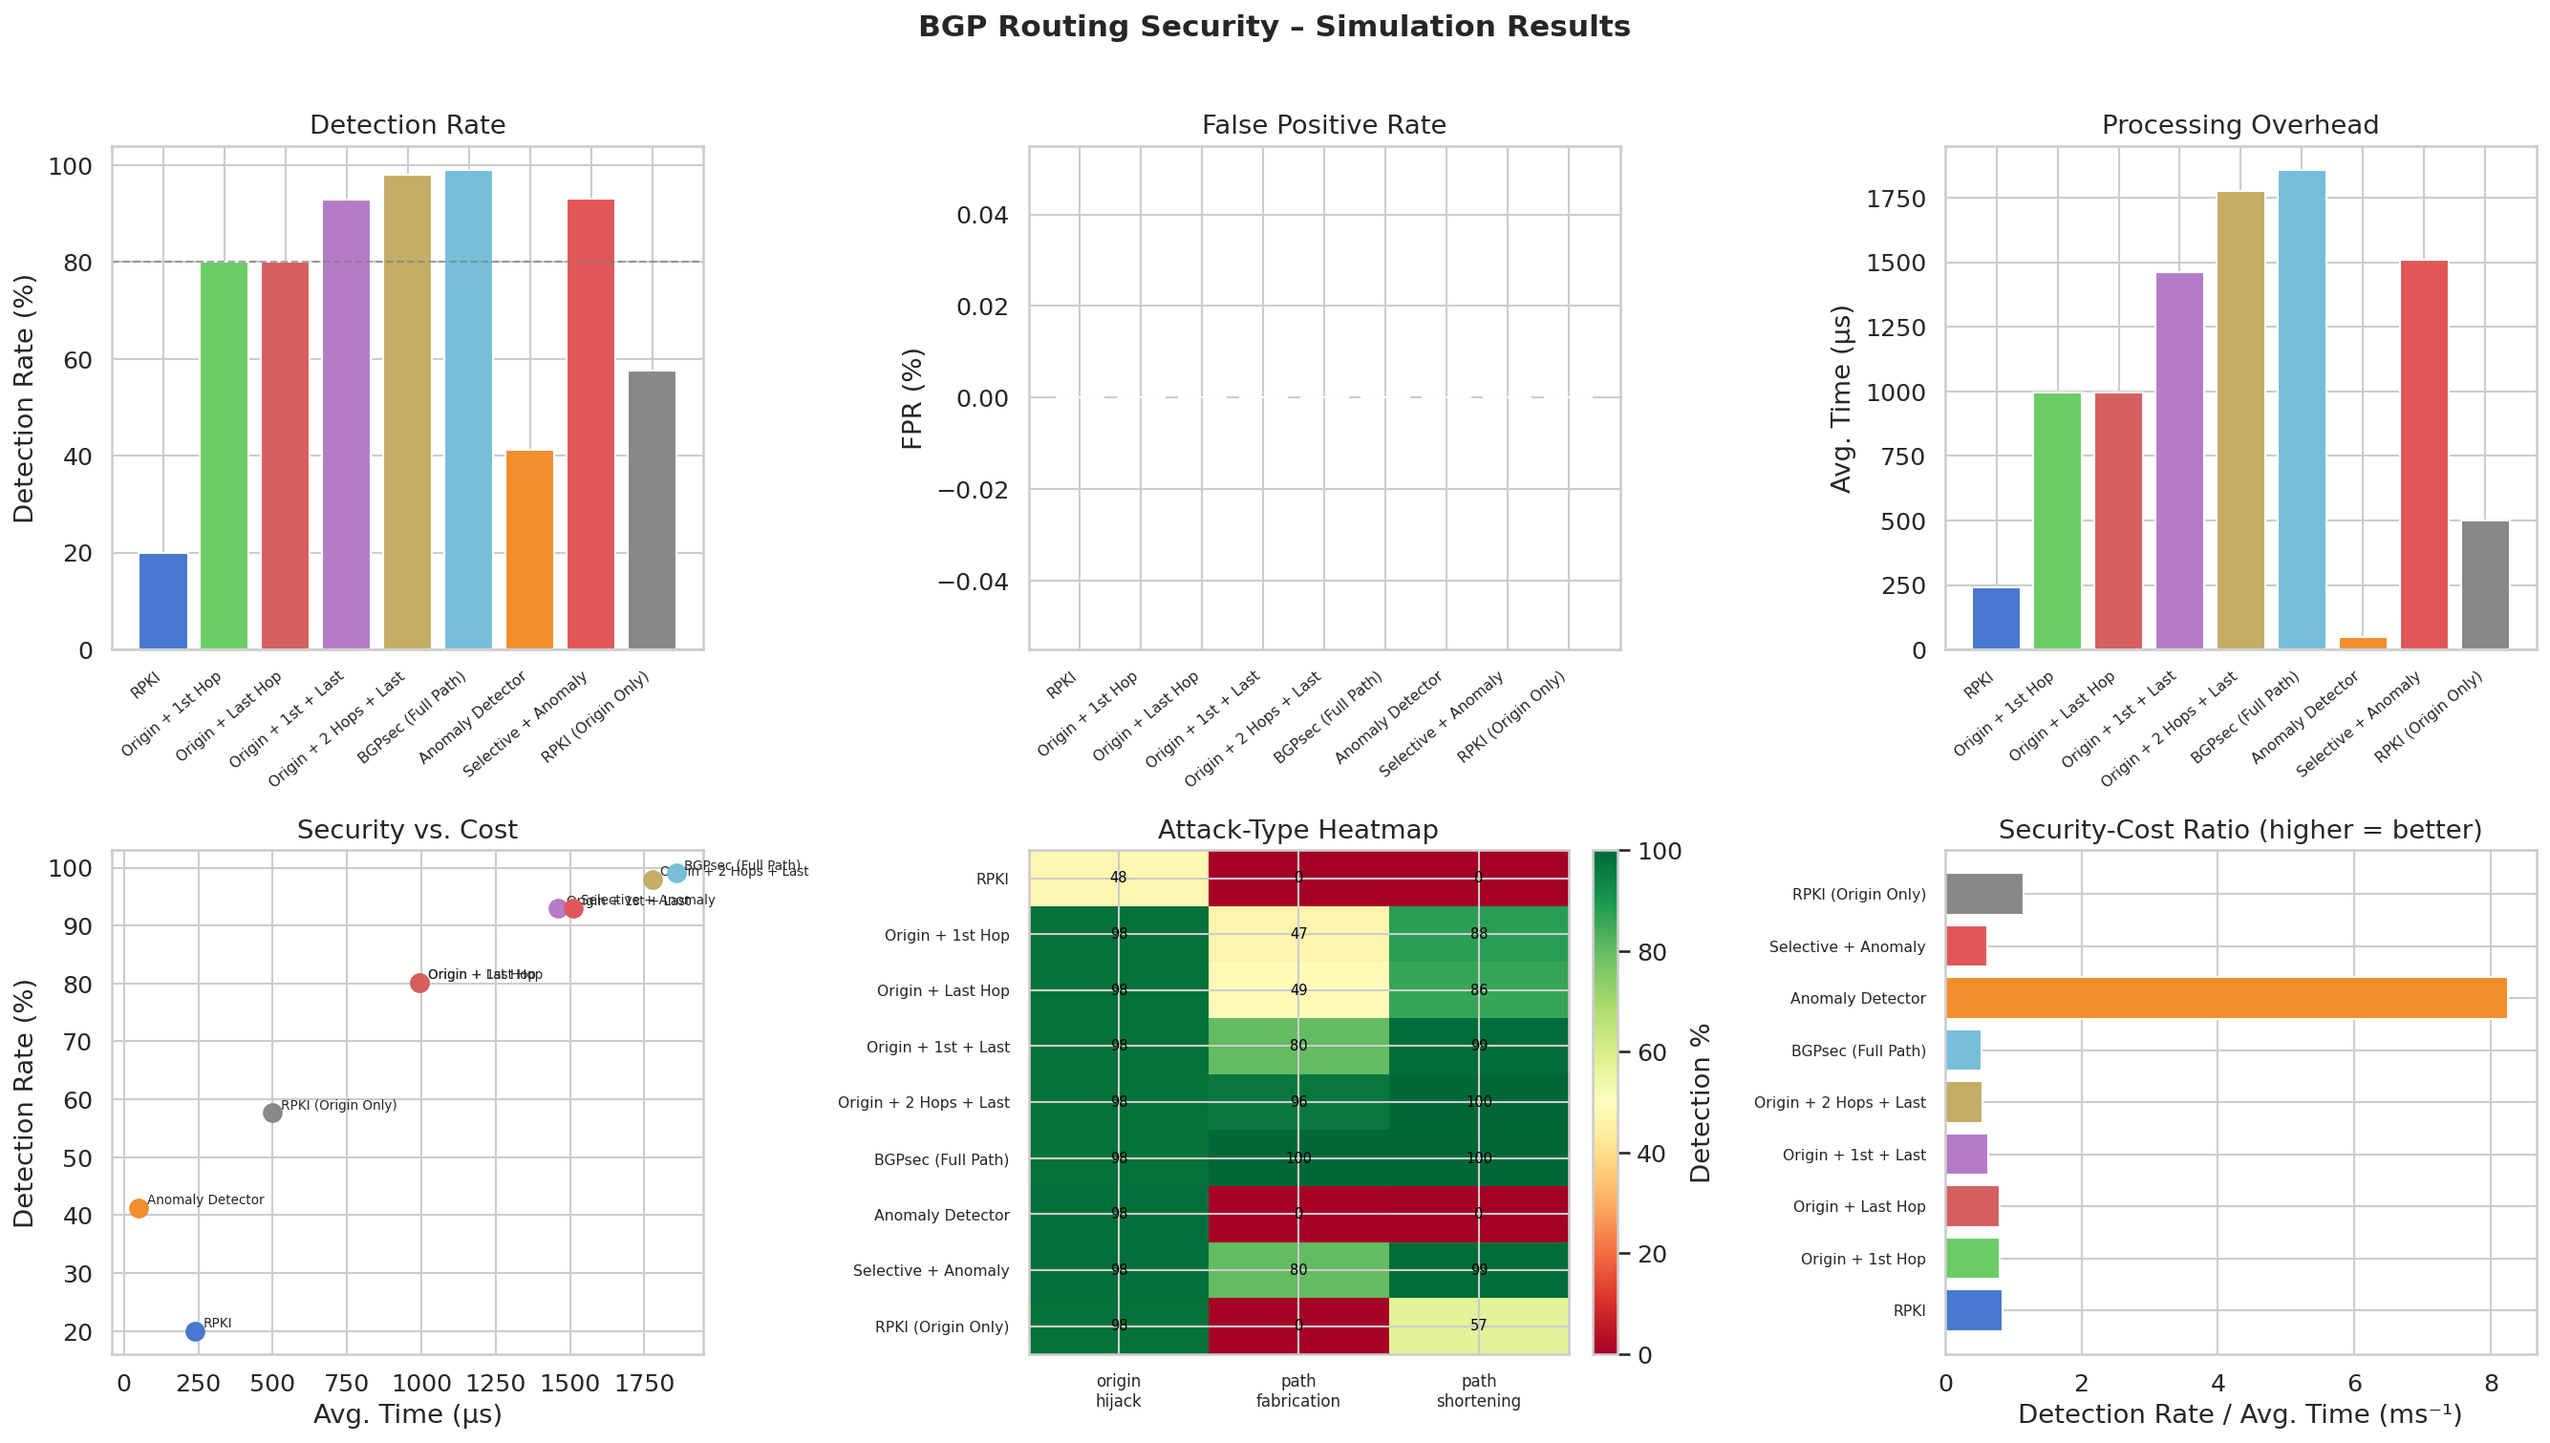
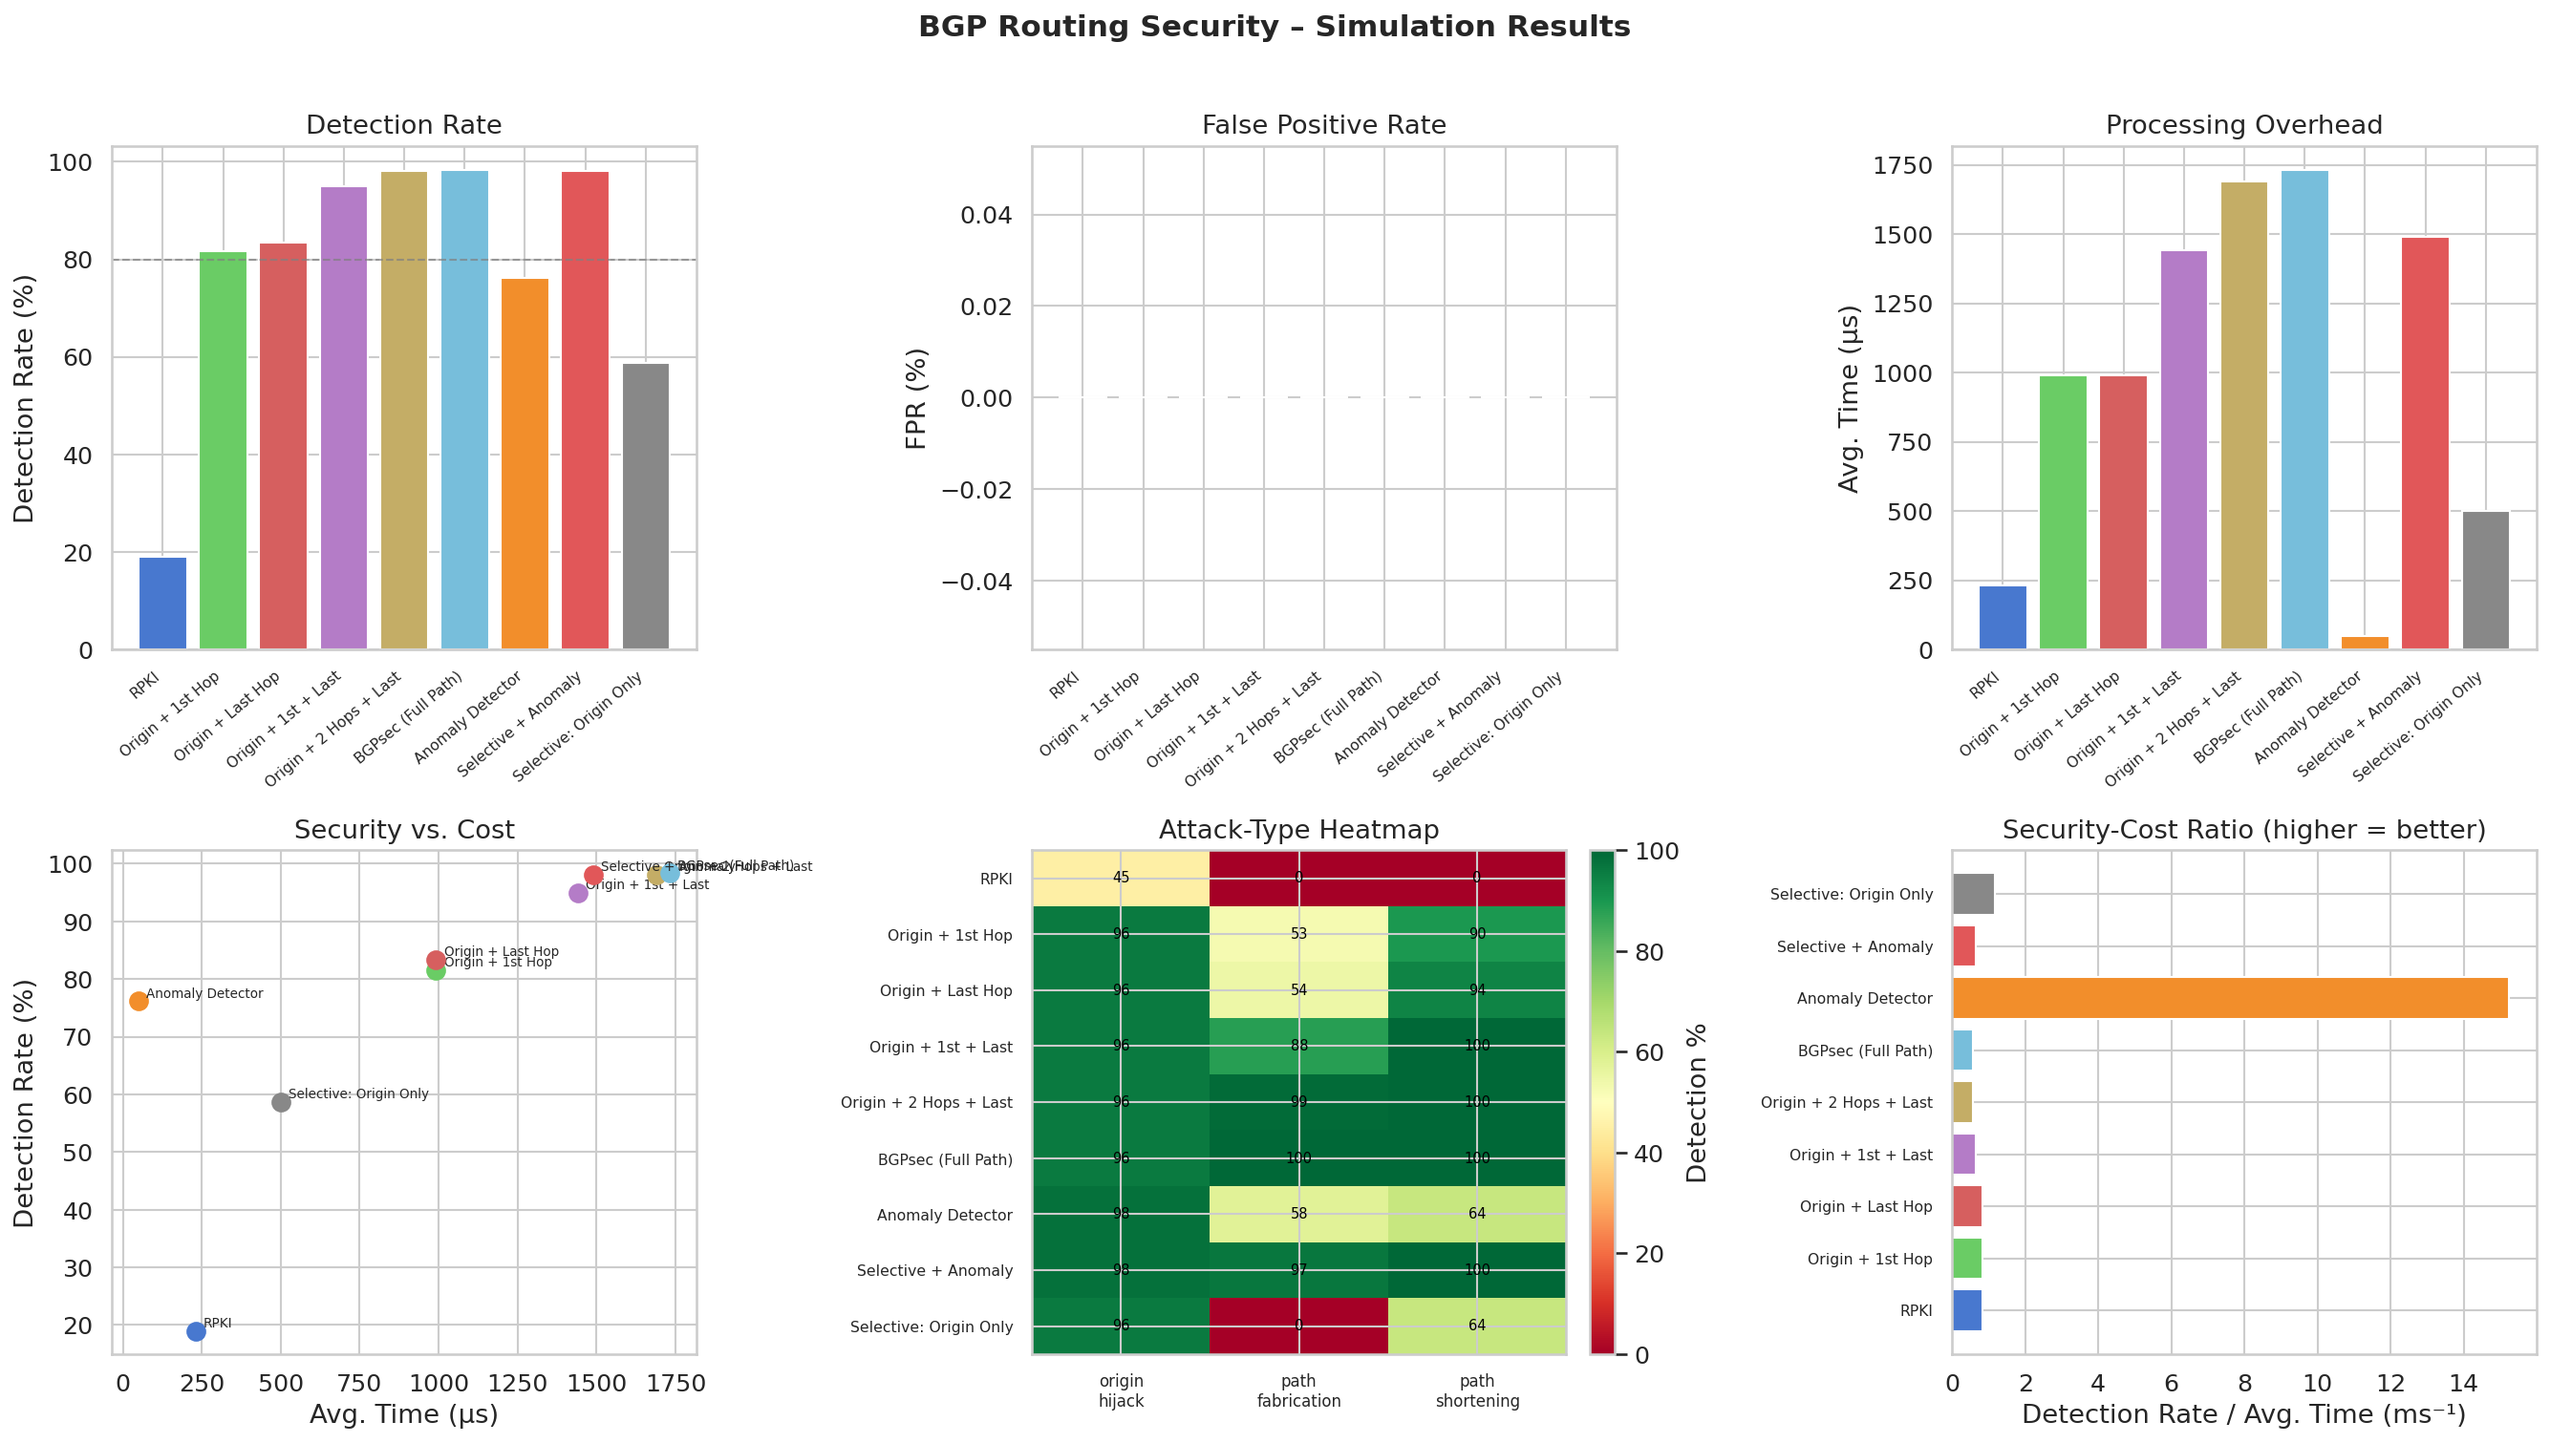
Fix four design issues flagged in review
1. Rename misleading "RPKI (Origin Only)" label to "Selective: Origin Only"
   The SelectiveHopValidator(positions=[0]) checks topological adjacency for
   every route regardless of ROA coverage. This is a fundamentally different
   mechanism from RPKIValidator, which only fires for the ~45% of prefixes
   that have a ROA. The old label implied they were the same thing. Added a
   detailed comment in config.py explaining the distinction between the two.

2. Fix anomaly detector not catching path fabrication/shortening
   Both attacks produce a valley-free violation (non-adjacent AS pair) AND
   a path-length z-score, but the combined score of 0.45 fell just under the
   0.5 threshold. Raised W_VALLEY_FREE 0.20→0.30 (with W_NEW_AS and W_LOOP
   each lowered 0.10→0.05 to keep weights summing to 1.0). Valley-free is a
   hard constraint for legitimate routes so weighting it higher is principled.
   Result: anomaly detector now catches 57.8% of path fabrication and 63.6%
   of path shortening, with detection rate rising from 40.9% to 76.2%.

3. Remove wasteful nx.has_path() call in sample_as_pairs
   The Barabási-Albert construction guarantees connectivity (confirmed at
   runtime via stats()['connected']), so has_path() always returned True and
   added O(n) overhead per sampled pair. Replaced with a direct list
   comprehension. Added a comment explaining why the check is unnecessary.

4. Clarify that timing constants are model parameters, not wall-clock data
[…]

diff --git a/config.py b/config.py
@@ -23,17 +23,29 @@ ATTACK_TYPE_DIST = {
 }
 
 # ── Timing constants (milliseconds per operation) ───────────────────────────
-# Based on empirical BGPsec measurements in the literature
-CRYPTO_VERIFY_MS    = 0.50   # RSA-2048 signature verification per hop
-HASH_LOOKUP_MS      = 0.01   # Hash-table / dict lookup (anomaly detector)
+# NOTE: these are *model parameters* drawn from published BGPsec benchmarks,
+# not wall-clock measurements.  All timing comparisons are therefore relative
+# (validator A vs. validator B), not absolute deployment estimates.
+CRYPTO_VERIFY_MS    = 0.50   # RSA-2048 signature verification per hop (model)
+HASH_LOOKUP_MS      = 0.01   # Hash-table / dict lookup (model)
 
 # ── Selective-hop combinations to benchmark ──────────────────────────────────
 # Position 0  = origin AS (rightmost in AS_PATH)
 # Position 1  = AS immediately after origin
 # Position -1 = receiving peer (leftmost in AS_PATH)
 # None        = verify all hops (BGPsec)
+#
+# NOTE on "Selective: Origin Only" vs. the RPKIValidator class:
+#   RPKIValidator   – models real-world RPKI: checks prefix→origin binding in
+#                     the ROA database.  Only ~45 % of prefixes have a ROA, so
+#                     detection is limited by deployment coverage.
+#   "Selective: Origin Only" (SelectiveHopValidator, positions=[0]) – checks
+#                     topological adjacency at the origin hop for *every* route,
+#                     regardless of ROA coverage.  It represents the theoretical
+#                     ceiling of origin-only cryptographic verification at 100 %
+#                     deployment and is a different mechanism entirely.
 HOP_COMBINATIONS = {
-    "origin_only":         {"positions": [0],         "label": "RPKI (Origin Only)"},
+    "origin_only":         {"positions": [0],         "label": "Selective: Origin Only"},
     "origin_first":        {"positions": [0, 1],      "label": "Origin + 1st Hop"},
     "origin_last":         {"positions": [0, -1],     "label": "Origin + Last Hop"},
     "origin_first_last":   {"positions": [0, 1, -1],  "label": "Origin + 1st + Last"},

diff --git a/src/validators/anomaly.py b/src/validators/anomaly.py
@@ -60,12 +60,20 @@ class AnomalyDetector(BaseValidator):
 
     name = "Anomaly Detector"
 
-    # ── Weights for each detection signal (must sum to ≤1 each individually) ─
+    # ── Weights for each detection signal (sum = 1.0) ────────────────────────
+    # W_VALLEY_FREE is deliberately higher than the other structural signals
+    # because a valley-free violation is a *hard* constraint: legitimate BGP
+    # paths must satisfy it, so any violation is strongly indicative of path
+    # manipulation (shortening or fabrication).  Setting it to 0.30 means a
+    # fabricated/shortened path that triggers both the path-length z-score
+    # (0.25) and the valley-free check (0.30) scores ≥ 0.55 > threshold (0.50),
+    # making those attacks reliably detectable without raising the false-positive
+    # rate on legitimate routes (which always satisfy valley-free).
     W_PATH_LENGTH   = 0.25
     W_ORIGIN_CHANGE = 0.35
-    W_VALLEY_FREE   = 0.20
-    W_NEW_AS        = 0.10
-    W_LOOP          = 0.10
+    W_VALLEY_FREE   = 0.30   # raised from 0.20; see note above
+    W_NEW_AS        = 0.05   # lowered from 0.10 to keep total = 1.0
+    W_LOOP          = 0.05   # lowered from 0.10 to keep total = 1.0
 
     def __init__(
         self,

diff --git a/src/topology.py b/src/topology.py
@@ -117,14 +117,15 @@ class ASTopology:
         return True
 
     def sample_as_pairs(self, n: int) -> List[Tuple[int, int]]:
-        """Sample n (source, destination) AS pairs for route generation."""
+        """Sample n (source, destination) AS pairs for route generation.
+
+        The Barabási-Albert construction guarantees the graph is connected
+        (verified at build time via stats()), so every pair has a path and
+        the nx.has_path() guard is unnecessary overhead.
+        """
         ases = list(self.graph.nodes())
-        pairs = []
-        while len(pairs) < n:
-            src, dst = self.rng.sample(ases, 2)
-            if nx.has_path(self.graph, src, dst):
-                pairs.append((src, dst))
-        return pairs
+        pairs = [tuple(self.rng.sample(ases, 2)) for _ in range(n)]
+        return pairs  # type: ignore[return-value]
 
     # ── Internal build methods ────────────────────────────────────────────────
 

diff --git a/main.py b/main.py
@@ -216,6 +216,9 @@ def run(args: argparse.Namespace) -> None:
     pd.set_option("display.max_columns",  20)
     pd.set_option("display.width",        120)
     print(summary[["detection_rate", "false_positive_rate", "avg_time_ms", "security_cost_ratio"]].to_string())
+    print("\n  NOTE: avg_time_ms values are *model estimates* based on published")
+    print("  RSA-2048 benchmarks (0.50 ms/verification), not wall-clock timings.")
+    print("  Use them for relative comparisons between validators only.")
 
     _print_section("Results – Detection Rate by Attack Type")
     print(breakdown.to_string())
